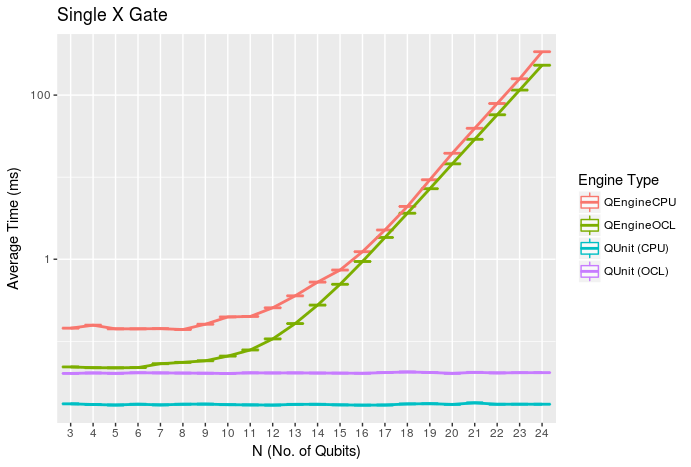
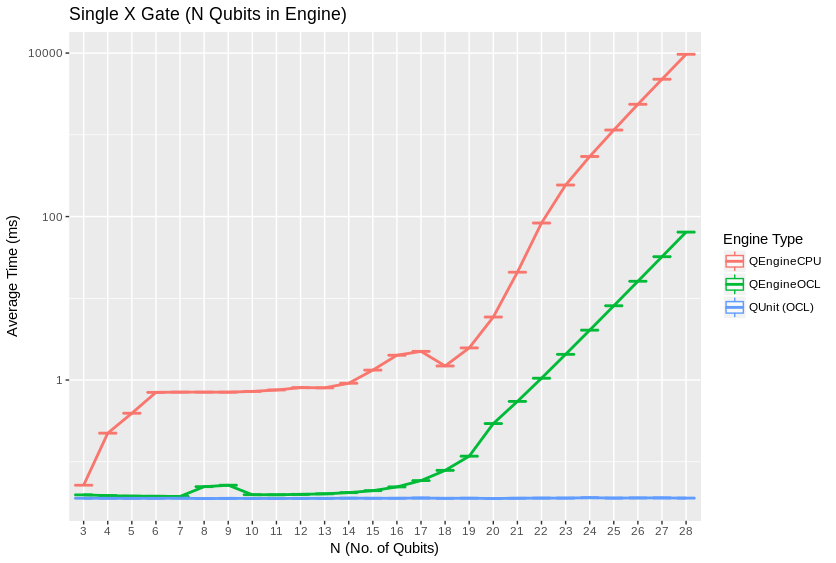
Performance

diff --git a/docs/performance.rst b/docs/performance.rst
@@ -53,8 +53,9 @@ Disclaimers
 ===========
 
 * Your Mileage May Vary - Any performance metrics here are the result of
-  experiments executed on local machines; execute the supplied benchmarks on
-  the desired target system for accurate performance assessments.
+  experiments executed with selected compilation and execution parameters on a
+  system with a degree of variability; execute the supplied benchmarks on the
+  desired target system for accurate performance assessments.
 
 * Benchmarking is Hard - While we've attempted to perform clean and accurate
   results, bugs and mistakes do occur.  If flaws in process are identified,
@@ -63,9 +64,9 @@ Disclaimers
 Method
 ******
 
-100 timed trials of each method were run for each qubit count between 3 and 24 qubits. The average and quartile boundary values of each set of 100 were recorded and graphed. Grover's search to invert a black box subroutine, or "oracle," was similarly implemented for trials between 3 and 17 qubits. Grover's algorithm was iterated an optimal number of times, vs. qubit count, to maximize probability on a half cycle of the algorithm's period, being :math:`floor\left[\frac{\pi}{4asin\left(1/\sqrt{2^N}\right)}\right]` iterations for :math:`N` qubits.
+100 timed trials of each method were run for each qubit count between 3 and 28 qubits, on an AWS p3.8xlarge running Ubuntu Server 16.04LTS. The average and quartile boundary values of each set of 100 were recorded and graphed. Grover's search to invert a black box subroutine, or "oracle," was similarly implemented for trials between 3 and 16 qubits. Grover's algorithm was iterated an optimal number of times, vs. qubit count, to maximize probability on a half cycle of the algorithm's period, being :math:`floor\left[\frac{\pi}{4asin\left(1/\sqrt{2^N}\right)}\right]` iterations for :math:`N` qubits.
 
-The test machine has an 04WT2G Alienware motherboard with Alienware BIOS A15. Its CPU is an Intel(R) Core(TM) i7-4910MQ. Its GPU is an NVIDIA Corporation GM204M [GeForce GTX 970M]. Its operating system is Ubuntu 16.04.4 LTS. It has 24GB of 1600MHz DDR3 RAM in 8GBx2 and 4GBx2 SODIMM configuration.
+The 16 qubit data point for Grover's search was not included for QEngineCPU, which is not hardware accelerated, because the monetary cost of exhaustive benchmarking is prohibitive, and QEngineCPU as currently implemented now primarily represents a legacy engine that would usually not be used for real application of Qrack. QEngineOCLMulti is experimental and generally performed worse or no better than QEngineOCL, despite running on multiple processors at once. It would also not yet be used for practical applications, so we omit its results, noting that it performs worse than the single device engine. (We will elaborate in the discussion section.)
 
 Heap profiling was carried out with Valgrind Massif. Heap sampling was limited but ultimately sufficient to show statistical confidence.
 
@@ -78,13 +79,13 @@ We observed extremely close correspondence with theoretical complexity and RAM u
 
 .. image:: performance/cnot_single.png
 
-QEngineCPU and QEngineOCL can perform many identical gates in parallel across entangled subsystems for about the same cost as a single gate. To test this, we can apply parallel gates at once across the full width of a coherent array of qubits. (CNOT is a two bit gate, so :math:`(N-1)/2` gates are applied to odd numbers of qubits.) Notice in these next graphs how QEngineCPU and QEngineOCL have approximately the same scaling cost as the single gate graphs above, while QUnit types show a linear trend (appearing logarithmic on an exponential axis scale):
+QEngineCPU and QEngineOCL can perform many identical gates in parallel across entangled subsystems for an approximately constant costs, when total qubits in the engine are held fixed as breadth of the parallel gate application is varied. To test this, we can apply parallel gates at once across the full width of a coherent array of qubits. (CNOT is a two bit gate, so :math:`(N-1)/2` gates are applied to odd numbers of qubits.) Notice in these next graphs how QEngineCPU and QEngineOCL have similar scaling cost as the single gate graphs above, while QUnit types show a linear trend (appearing logarithmic on an exponential axis scale):
 
 .. image:: performance/x_all.png
 
 .. image:: performance/cnot_all.png
 
-Heap sampling showed high confidence adherence to theoretical expecations. Complex numbers are represented as 2 double (64-bit) accuracy floating point types, for real and imaginary components. There is one complex number per permutation in a separable subsystem of qubits. QUnit explicitly separates subsystems, while QEngine maintains complex amplitudes for all :math:`2^N` permutations of :math:`N` qubits. QEngines duplicate their state vectors once for speed and simplicity where it eases implementation.
+Heap sampling showed high confidence adherence to theoretical expecations. Complex numbers are represented as 2 double (64-bit) or 2 single (32-bit) accuracy floating point types, for real and imaginary components. The use of double or single precision is controlled by a compilation flag. There is one complex number per permutation in a separable subsystem of qubits. QUnit explicitly separates subsystems, while QEngine maintains complex amplitudes for all :math:`2^N` permutations of :math:`N` qubits. QEngines duplicate their state vectors once during most gates for speed and simplicity where it eases implementation.
 
 .. image:: performance/qrack_ram.png
 
@@ -94,109 +95,26 @@ Grover's algorithm is a relatively ideal test case, in that it allows a modicum 
 
 [Broda2016]_ discusses how Grover's might be adapted in practicality to actually "search an unstructured database," or search an unstructured lookup table, and Qrack is also capable of applying Grover's search to a lookup table with its IndexedLDA, IndexedADC, and IndexedSBC methods. Benchmarks are not given for this arguably more practical application of the algorithm, because few other quantum computer simulator libraries implement it, yet.
 
-A representative sample of Qrack methods were run for 100 trials per qubit as above, for parallel gates up to the full span of the qubits. Multiple bit gates spanned the full length of coherent qubits up to integer division flooring for 2 and 3 qubit gates. Taking an observed threshold of 10 to 15 qubits for API method overhead to become much larger than "noise" levels, we regressed the high qubit end of each graph for an exponential fit for time against qubits. These regression equations are presented in tables of representative samplings of the API. The results follow this equation:
-
-.. math::
-   :label: regression_eq
-
-   [Milliseconds] = \exp \left( [Base] \left( [No. of Qubits] + [Intercept] \right) \right)
-
-In addition to the base and intercept, the table also notes the "First Qubit" that passed the noise threshold for the high qubit end of the graph, on the basis of its :math:`R^2` statistic being just greater than or equal to :math:`0.99`. The :math:`R^2` and model p-value are also reported. Assuming a "noise" threshold, note that these equations are expected to be biased in the direction of underestimating the exponential "Base" of the relationship. "Intercept" is then an estimate of how many qubits it would take for the method to complete in 1 millisecond on average.
-
-The quantum Fourier transform ("QFT") is consistently the slowest register-like operation. This offers a reasonable control case, as QFT is one of the only register-like API methods implemented in terms of calls to other fundamental gate methods.
-
-Software
-========
-
-These are a representative sample of regression equations for QEngineCPU. Testing was carried out on parallel gates across the full width of a coherent unit of quantum memory, up to integer flooring on 2 and 3 qubit gates.
-
-.. csv-table:: Regressed QEngineCPU Speed Equations
-  :header: "Method","First Qubit","Base","Intercept","R^2","p-value"
-  :widths: auto
-  
-  "AND",13,0.672,-14.0,0.992,6.76E-12
-  "ASL",14,0.725,-13.8,0.991,1.46E-10
-  "CLAND",12,0.681,-11.4,0.993,2.41E-13
-  "CLOR",14,0.725,-13.8,0.991,1.46E-10
-  "CLXOR",14,0.725,-13.8,0.991,1.46E-10
-  "CNOT",12,0.677,-14.5,0.995,4.13E-14
-  "CRT",14,0.709,-13.3,0.991,1.70E-10
-  "CY",13,0.681,-12.9,0.990,2.75E-11
-  "INC",12,0.815,-19.0,0.996,8.70E-15
-  "INCC",12,0.627,-14.3,0.992,5.44E-13
-  "INCS",12,0.666,-15.1,0.991,1.12E-12
-  "INCSC",12,0.629,-14.3,0.992,6.75E-13
-  "IndexedADC",12,0.627,-14.0,0.995,8.37E-14
-  "IndexedLDA",13,0.632,-14.9,0.992,7.39E-12
-  "IndexedSBC",12,0.619,-13.3,0.991,1.07E-12
-  "LSL",14,0.774,-14.6,0.990,2.17E-10
-  "MReg",12,0.620,-15.2,0.993,4.56E-13
-  "OR",13,0.699,-12.4,0.992,9.37E-12
-  "PhaseFlip",13,0.646,-15.5,0.993,3.13E-12
-  "QFT",11,0.682,-7.98,0.990,2.18E-13
-  "ROL",15,0.856,-15.7,0.993,6.02E-10
-  "RT",10,0.683,-9.65,0.994,1.17E-15
-  "Swap",13,0.728,-14.9,0.992,7.78E-12
-  "X",16,0.933,-16.2,0.991,1.88E-08
-  "XOR",13,0.697,-13.5,0.992,7.01E-12  
-  "Y",12,0.678,-10.9,0.992,6.35E-13
-  
-  
-
-OpenCL
-======
-
-These are a representative sample of regression equations for QEngineOCL. Testing was carried out on parallel gates across the full width of a coherent unit of quantum memory, up to integer flooring on 2 and 3 qubit gates.
-
-.. csv-table:: Regressed QEngineOCL Speed Equations
-  :header: "Method","First Qubit","Base","Intercept","R^2","p-value"
-  :widths: auto
-
-  "AND",14,0.655,-13.7,0.990,2.42E-10
-  "ASL",13,0.595,-13.1,0.992,8.57E-12
-  "CLAND",11,0.662,-11.2,0.991,1.14E-13
-  "CLOR",12,0.624,-13.4,0.993,3.60E-13
-  "CLXOR",10,0.617,-13.9,0.990,2.05E-14
-  "CNOT",14,0.639,-13.8,0.994,2.80E-11
-  "CRT",11,0.678,-13.4,0.994,1.25E-14
-  "CY",11,0.678,-13.4,0.994,1.26E-14
-  "INC",14,0.642,-15.5,0.993,4.65E-11
-  "INCC",13,0.598,-14.0,0.991,1.71E-11
-  "INCS",14,0.642,-15.5,0.992,1.17E-10
-  "INCSC",15,0.645,-14.2,0.997,3.76E-11
-  "IndexedADC",14,0.592,-13.7,0.990,2.88E-10
-  "IndexedLDA",15,0.624,-14.2,0.994,3.49E-10
-  "IndexedSBC",14,0.614,-13.5,0.990,2.15E-10
-  "LSL",13,0.606,-13.9,0.991,1.42E-11
-  "MReg",12,0.603,-14.8,0.997,2.07E-15
-  "OR",13,0.669,-12.4,0.991,1.78E-11
-  "PhaseFlip",13,0.645,-15.6,0.990,1.96E-11
-  "QFT",10,0.704,-9.18,0.991,7.80E-15
-  "ROL",14,0.641,-15.5,0.992,7.35E-11
-  "RT",11,0.685,-11.5,0.995,3.71E-15
-  "Swap",14,0.643,-15.5,0.993,6.23E-11
-  "X",14,0.642,-15.6,0.992,7.46E-11
-  "XOR",14,0.650,-12.7,0.991,1.70E-10
-  "Y",10,0.680,-11.7,0.994,8.93E-16
-
 Discussion
 **********
 
 Up to a consistent deviation at low qubit counts, speed and RAM usage is well predicted by theoretical complexity considerations of the gates, up to a factor of 2 on heap usage for duplication of the state vector.
 
-We might speculate that, at high qubit counts, the calculations operate almost entirely on heap, while system call and cache hit efficiency consistently alter the trend up until around roughly 12 qubits, on the test machine, causing the apparent inflection points observed in the graphs given above. For "software" simulation, this would be roughly consistent with the advertised 8MB cache of the i7-4910MQ. If the reduction in the slope of the trend to this point is primarily due to cache hit, about 8 fully entangled qubits would be ideal for an 8MB cache.
+We might speculate that, at high qubit counts, the calculations operate almost entirely on heap, while system call and cache hit efficiency consistently alter the trend up until a persistent and detectable "bump" at around roughly 8 qubits for the software implementation, and another "bump" at around 17 qubits for the hardware-accelerated engine, on the P3 test machine. For "software" simulation, this would be roughly consistent with a 4MB cache. For the hardware acceleration, this implies a preferred faster RAM bank of about 2GB.
+
+QEngineOCLMulti, an OpenCL-based multiprocessor engine based on the algorithms developed in Intel's [QHiPSTER]_, fails to outperform the single processor QEngineOCL. We include it in the current release to help the open source community realize a practical multiprocessor implementation in the context of Qrack. A branch of the multiprocessor engine has already been implemented with dynamic load balancing between processors, but it produced no significant improvement. By deduction, likely, we guess that the explicit reliance on general "host" RAM banks for storing the substate vectors creates a bottleneck, when multiple processors need to communicate with general RAM at the same time on the same bus. To alleviate this, a new QEngineOCLMulti implementation might assume that each processor device has a large personal store of memory, at least 4 or 8 GB, in which case OpenCL could be told explicitly to allocate substate vectors in device memory and not use "host" RAM at all for storing the state vector.
 
 Further Work
 ************
 
-We suggest that a good next primary target for optimizing Qrack is to allow cluster distribution of all the various engine types. Also, CPU "software" implementation parallelism relies on certain potentially expensive standard library functionality, like lambda expressions, and might still be micro-optimized. The API offers many optimized bitwise parallel operations over contiguous bit strings, but similar methods for discontiguous bit sets should be feasible with bit masks, if there is a reasonable demand for them. Further, there is still opportunity for better constant bitwise parallelism cost coverage and better explicit qubit subsystem separation in QUnit.
+Qrack has been successfully run on multiple processors at once, and even on clusters, but not with practical performance for real application; a good next step is to redesign the multiprocessor engine to actually outperform the single device engine. Also, CPU "software" implementation parallelism relies on certain potentially expensive standard library functionality, like lambda expressions, and might still be micro-optimized. The API offers many optimized bitwise parallel operations over contiguous bit strings, but similar methods for discontiguous bit sets should be feasible with bit masks, if there is a reasonable demand for them. Further, there is still opportunity for better constant bitwise parallelism cost coverage and better explicit qubit subsystem separation in QUnit.
 
 We will also develop and maintain systematic comparisons to published benchmarks of quantum computer simulation standard libraries, as they arise.
 
 Conclusion
 **********
 
-Per [Pednault2017]_, explicitly separated subsystems of qubits in QUnit have a significant RAM and speed edge in many cases over the "Schrödinger algorithm" of QEngineCPU and QEngineOCL. One of Qrack's greatest new optimizations to either general algorithm is constant complexity or "free" scaling of bitwise parallelism in entangled subsystems, compared to linear complexity scaling without this optimization. Qrack gives at least reasonably efficient performance on a single node up to about 30 qubits, in the limit of maximal entanglement.
+Per [Pednault2017]_, explicitly separated subsystems of qubits in QUnit have a significant RAM and speed edge in many cases over the "Schrödinger algorithm" of QEngineCPU and QEngineOCL. One of Qrack's greatest new optimizations to either general algorithm is constant complexity or "free" scaling of bitwise parallelism in entangled subsystems, compared to linear complexity scaling without this optimization. Qrack gives very efficient performance on a single node up to at least about 30 qubits, in the limit of maximal entanglement.
 
 Citations
 *********
